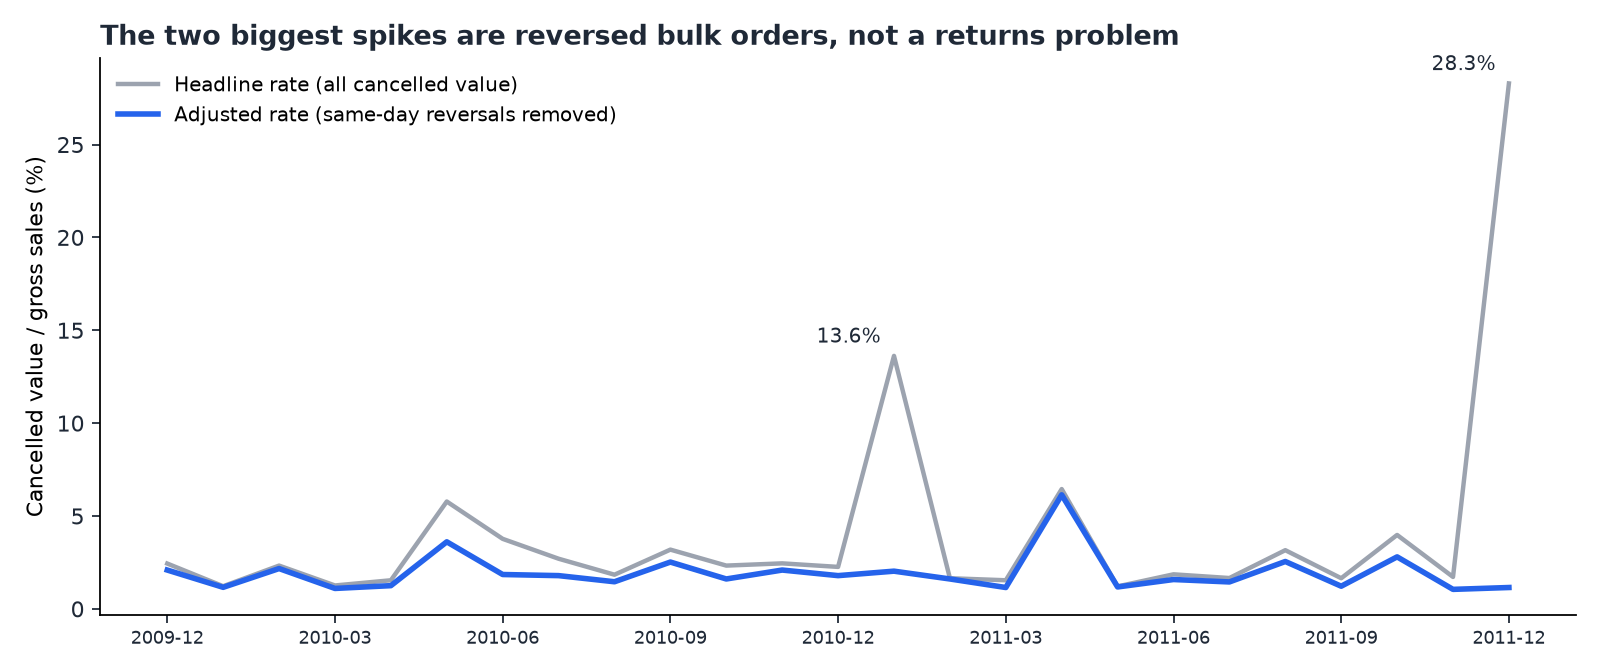
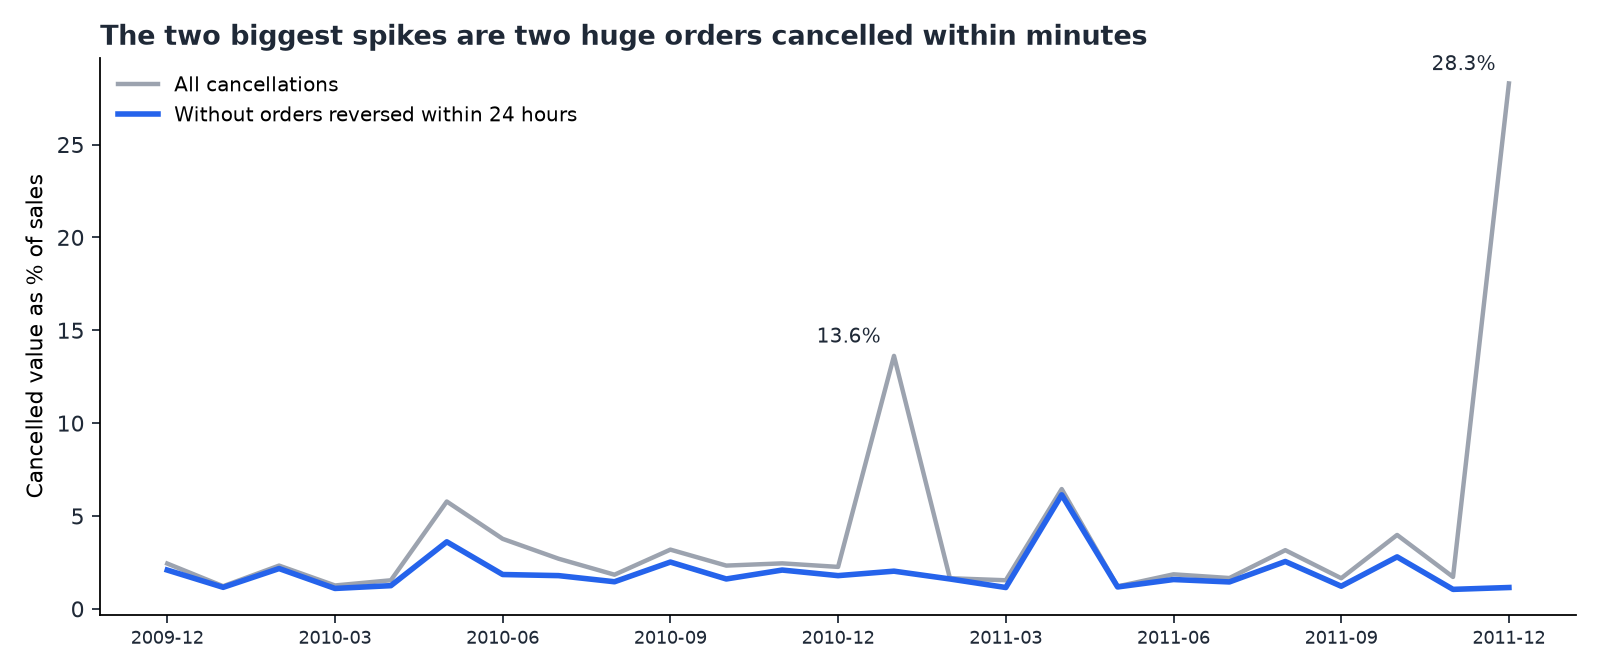
Plain-English chart and dashboard labels

Changed region(s): [[0.0938, 0.0938, 0.4062, 0.1875], [0.3125, 0.0312, 0.75, 0.0938], [0.0, 0.25, 0.0312, 0.75]]

diff --git a/reports/dashboard.html b/reports/dashboard.html
@@ -6,10 +6,10 @@ h1{font-size:22px;margin:0 0 4px}p.sub{margin:0 0 16px;color:#6b7280}
 .card{border:1px solid #e5e7eb;border-radius:8px;padding:12px 14px}.card b{display:block;font-size:26px}.card span{font-size:12px;color:#6b7280}
 .note{font-size:12px;color:#6b7280}</style></head><body>
 <h1>Retail cancellation leakage</h1>
-<p class="sub">UCI Online Retail II, one UK giftware retailer, Dec 2009 - Dec 2011. Product lines only; see README for cleaning rules.</p>
-<div class="cards"><div class="card"><b>£19.7m</b><span>Gross product sales (Dec 2009 - Dec 2011)</span></div><div class="card"><b>3.65%</b><span>Headline cancellation rate (by value)</span></div><div class="card"><b>50%</b><span>Of cancelled value is same-day reversals</span></div><div class="card"><b>1.88%</b><span>Adjusted rate after removing reversals</span></div></div>
+<p class="sub">Real sales from one UK online gift retailer (UCI Online Retail II), Dec 2009 to Dec 2011. Products only; the README lists the cleaning rules.</p>
+<div class="cards"><div class="card"><b>£19.7m</b><span>Product sales, Dec 2009 to Dec 2011</span></div><div class="card"><b>3.65%</b><span>Overall cancellation rate (by value)</span></div><div class="card"><b>50%</b><span>Of the cancelled value is orders reversed within 24 hours</span></div><div class="card"><b>1.88%</b><span>Cancellation rate once reversals are left out</span></div></div>
 <div style="height:820px; width:100%;">                        <script>window.PlotlyConfig = {MathJaxConfig: 'local'};</script>
-        <script charset="utf-8" src="https://cdn.plot.ly/plotly-4.1.1.min.js" integrity="sha256-O24V1F27f8pb0glCkelh3cVHLNiHAJ5gCaVtq2aNch8=" crossorigin="anonymous"></script>                <div id="9297d479-2f8f-4265-a16e-4677a641a400" class="plotly-graph-div" style="height:100%; width:100%;"></div>            <script>                window.PLOTLYENV=window.PLOTLYENV || {};                                if (document.getElementById("9297d479-2f8f-4265-a16e-4677a641a400")) {                    Plotly.newPlot(                        "9297d479-2f8f-4265-a16e-4677a641a400",                        [{"line":{"color":"#9ca3af","width":2},"name":"Headline","x":["2009-12","2010-01","2010-02","2010-03","2010-04","2010-05","2010-06","2010-07","2010-08","2010-09","2010-10","2010-11","2010-12","2011-01","2011-02","2011-03","2011-04","2011-05","2011-06","2011-07","2011-08","2011-09","2011-10","2011-11","2011-12"],"y":{"dtype":"f8","bdata":"hetRuB6FA0CF61G4HoXzP6RwPQrXowJAKVyPwvUo9D+kcD0K16P4Px+F61G4HhdAKVyPwvUoDkCamZmZmZkFQHE9CtejcP0\u002fhetRuB6FCUCkcD0K16MCQJqZmZmZmQNAFK5H4XoUAkA9CtejcD0rQGZmZmZmZvo\u002fpHA9Ctej+D\u002fNzMzMzMwZQFyPwvUoXPM\u002fw\u002fUoXI\u002fC\u002fT+PwvUoXI\u002f6P0jhehSuRwlAZmZmZmZm+j\u002fXo3A9CtcPQIXrUbgehfs\u002fCtejcD1KPEA="},"type":"scatter","xaxis":"x","yaxis":"y"},{"line":{"color":"#2563eb","width":3},"name":"Adjusted","x":["2009-12","2010-01","2010-02","2010-03","2010-04","2010-05","2010-06","2010-07","2010-08","2010-09","2010-10","2010-11","2010-12","2011-01","2011-02","2011-03","2011-04","2011-05","2011-06","2011-07","2011-08","2011-09","2011-10","2011-11","2011-12"],"y":{"dtype":"f8","bdata":"uB6F61G4AECPwvUoXI\u002fyP1yPwvUoXAFAmpmZmZmZ8T8AAAAAAAD0P+F6FK5H4QxAmpmZmZmZ\u002fT+kcD0K16P8P1yPwvUoXPc\u002fKVyPwvUoBEDD9Shcj8L5P7gehetRuABApHA9Ctej\u002fD89CtejcD0AQMP1KFyPwvk\u002fZmZmZmZm8j+PwvUoXI8YQOF6FK5H4fI\u002fSOF6FK5H+T8zMzMzMzP3P2ZmZmZmZgRAhetRuB6F8z9mZmZmZmYGQM3MzMzMzPA\u002fZmZmZmZm8j8="},"type":"scatter","xaxis":"x","yaxis":"y"},{"marker":{"color":["#dc2626","#2563eb","#9ca3af"]},"showlegend":false,"x":["Same-day reversals","Other cancellations","No customer ID"],"y":[356000.0,357010.0,6647.0],"type":"bar","xaxis":"x2","yaxis":"y2"},{"customdata":{"dtype":"f8","bdata":"ZmZmZmZmIEAAAAAAAAAhQDMzMzMzMzxAZmZmZmZmIUAAAAAAAIAwQGZmZmZmZiRAMzMzMzNzQUBmZmZmZuY5QJqZmZmZmQVAmpmZmZmZEUA="},"hovertemplate":"%{y}\u003cbr\u003e\u00a3%{x:,.0f} (%{customdata}% of SKU sales)\u003cextra\u003e\u003c\u002fextra\u003e","marker":{"color":"#2563eb"},"orientation":"h","showlegend":false,"x":{"dtype":"f8","bdata":"AAAAAACKrEAAAAAAAFatQAAAAAAAZq5AAAAAAAAqr0AAAAAAALOwQAAAAAAAR7JAAAAAAACSuEAAAAAAALG5QAAAAAAAaLtAAAAAAAApzEA="},"y":["Coloured Glass Star T-Light Ho","Gin + Tonic Diet Metal Sign","Pink Cherry Lights","Baking Set 9 Piece Retrospot ","Tea Time Party Bunting","Doormat Fairy Cake","White Cherry Lights","Fairy Cake Flannel Assorted Co","White Hanging Heart T-Light Ho","Regency Cakestand 3 Tier"],"type":"bar","xaxis":"x3","yaxis":"y3"},{"error_y":{"array":{"dtype":"f8","bdata":"0MzMzMzM3D9SuB6F61EiQJqZmZmZWTVAcD0K16Nw5T8="},"arrayminus":{"dtype":"f8","bdata":"xPUoXI\u002fC1T+kcD0K16MRQArXo3A9CidAzszMzMzM5D8="},"symmetric":false,"type":"data"},"marker":{"color":"#2563eb"},"showlegend":false,"x":["United Kingdom","France","Spain","Germany"],"y":{"dtype":"f8","bdata":"AAAAAAAAAEBSuB6F61EVQHsUrkfh+idA7FG4HoXrAUA="},"type":"bar","xaxis":"x4","yaxis":"y4"},{"marker":{"color":"#dc2626","size":10},"mode":"markers","name":"Without top canceller","x":["United Kingdom","France","Spain","Germany"],"y":{"dtype":"f8","bdata":"cT0K16Nw\u002fT+uR+F6FK7zP6RwPQrXo+g\u002frkfhehSu\u002fz8="},"type":"scatter","xaxis":"x4","yaxis":"y4"}],                        {"template":{"data":{"barpolar":[{"marker":{"line":{"color":"white","width":0.5},"pattern":{"fillmode":"overlay","size":10,"solidity":0.2}},"type":"barpolar"}],"bar":[{"error_x":{"color":"rgb(36,36,36)"},"error_y":{"color":"rgb(36,36,36)"},"marker":{"line":{"color":"white","width":0.5},"pattern":{"fillmode":"overlay","size":10,"solidity":0.2}},"type":"bar"}],"carpet":[{"aaxis":{"endlinecolor":"rgb(36,36,36)","gridcolor":"white","linecolor":"white","minorgridcolor":"white","startlinecolor":"rgb(36,36,36)"},"baxis":{"endlinecolor":"rgb(36,36,36)","gridcolor":"white","linecolor":"white","minorgridcolor":"white","startlinecolor":"rgb(36,36,36)"},"type":"carpet"}],"choropleth":[{"colorbar":{"outlinewidth":1,"tickcolor":"rgb(36,36,36)","ticks":"outside"},"type":"choropleth"}],"contourcarpet":[{"colorbar":{"outlinewidth":1,"tickcolor":"rgb(36,36,36)","ticks":"outside"},"type":"contourcarpet"}],"contour":[{"colorbar":{"outlinewidth":1,"tickcolor":"rgb(36,36,36)","ticks":"outside"},"colorscale":[[0.0,"#440154"],[0.1111111111111111,"#482878"],[0.2222222222222222,"#3e4989"],[0.3333333333333333,"#31688e"],[0.4444444444444444,"#26828e"],[0.5555555555555556,"#1f9e89"],[0.6666666666666666,"#35b779"],[0.7777777777777778,"#6ece58"],[0.8888888888888888,"#b5de2b"],[1.0,"#fde725"]],"type":"contour"}],"heatmap":[{"colorbar":{"outlinewidth":1,"tickcolor":"rgb(36,36,36)","ticks":"outside"},"colorscale":[[0.0,"#440154"],[0.1111111111111111,"#482878"],[0.2222222222222222,"#3e4989"],[0.3333333333333333,"#31688e"],[0.4444444444444444,"#26828e"],[0.5555555555555556,"#1f9e89"],[0.6666666666666666,"#35b779"],[0.7777777777777778,"#6ece58"],[0.8888888888888888,"#b5de2b"],[1.0,"#fde725"]],"type":"heatmap"}],"histogram2dcontour":[{"colorbar":{"outlinewidth":1,"tickcolor":"rgb(36,36,36)","ticks":"outside"},"colorscale":[[0.0,"#440154"],[0.1111111111111111,"#482878"],[0.2222222222222222,"#3e4989"],[0.3333333333333333,"#31688e"],[0.4444444444444444,"#26828e"],[0.5555555555555556,"#1f9e89"],[0.6666666666666666,"#35b779"],[0.7777777777777778,"#6ece58"],[0.8888888888888888,"#b5de2b"],[1.0,"#fde725"]],"type":"histogram2dcontour"}],"histogram2d":[{"colorbar":{"outlinewidth":1,"tickcolor":"rgb(36,36,36)","ticks":"outside"},"colorscale":[[0.0,"#440154"],[0.1111111111111111,"#482878"],[0.2222222222222222,"#3e4989"],[0.3333333333333333,"#31688e"],[0.4444444444444444,"#26828e"],[0.5555555555555556,"#1f9e89"],[0.6666666666666666,"#35b779"],[0.7777777777777778,"#6ece58"],[0.8888888888888888,"#b5de2b"],[1.0,"#fde725"]],"type":"histogram2d"}],"histogram":[{"marker":{"line":{"color":"white","width":0.6}},"type":"histogram"}],"mesh3d":[{"colorbar":{"outlinewidth":1,"tickcolor":"rgb(36,36,36)","ticks":"outside"},"type":"mesh3d"}],"parcoords":[{"line":{"colorbar":{"outlinewidth":1,"tickcolor":"rgb(36,36,36)","ticks":"outside"}},"type":"parcoords"}],"pie":[{"automargin":true,"type":"pie"}],"scatter3d":[{"line":{"colorbar":{"outlinewidth":1,"tickcolor":"rgb(36,36,36)","ticks":"outside"}},"marker":{"colorbar":{"outlinewidth":1,"tickcolor":"rgb(36,36,36)","ticks":"outside"}},"type":"scatter3d"}],"scattercarpet":[{"marker":{"colorbar":{"outlinewidth":1,"tickcolor":"rgb(36,36,36)","ticks":"outside"}},"type":"scattercarpet"}],"scattergeo":[{"marker":{"colorbar":{"outlinewidth":1,"tickcolor":"rgb(36,36,36)","ticks":"outside"}},"type":"scattergeo"}],"scattergl":[{"marker":{"colorbar":{"outlinewidth":1,"tickcolor":"rgb(36,36,36)","ticks":"outside"}},"type":"scattergl"}],"scattermap":[{"marker":{"colorbar":{"outlinewidth":1,"tickcolor":"rgb(36,36,36)","ticks":"outside"}},"type":"scattermap"}],"scatterpolargl":[{"marker":{"colorbar":{"outlinewidth":1,"tickcolor":"rgb(36,36,36)","ticks":"outside"}},"type":"scatterpolargl"}],"scatterpolar":[{"marker":{"colorbar":{"outlinewidth":1,"tickcolor":"rgb(36,36,36)","ticks":"outside"}},"type":"scatterpolar"}],"scatter":[{"fillpattern":{"fillmode":"overlay","size":10,"solidity":0.2},"type":"scatter"}],"scatterternary":[{"marker":{"colorbar":{"outlinewidth":1,"tickcolor":"rgb(36,36,36)","ticks":"outside"}},"type":"scatterternary"}],"surface":[{"colorbar":{"outlinewidth":1,"tickcolor":"rgb(36,36,36)","ticks":"outside"},"colorscale":[[0.0,"#440154"],[0.1111111111111111,"#482878"],[0.2222222222222222,"#3e4989"],[0.3333333333333333,"#31688e"],[0.4444444444444444,"#26828e"],[0.5555555555555556,"#1f9e89"],[0.6666666666666666,"#35b779"],[0.7777777777777778,"#6ece58"],[0.8888888888888888,"#b5de2b"],[1.0,"#fde725"]],"type":"surface"}],"table":[{"cells":{"fill":{"color":"rgb(237,237,237)"},"line":{"color":"white"}},"header":{"fill":{"color":"rgb(217,217,217)"},"line":{"color":"white"}},"type":"table"}]},"layout":{"annotationdefaults":{"arrowhead":0,"arrowwidth":1},"autotypenumbers":"strict","coloraxis":{"colorbar":{"outlinewidth":1,"tickcolor":"rgb(36,36,36)","ticks":"outside"}},"colorscale":{"diverging":[[0.0,"rgb(103,0,31)"],[0.1,"rgb(178,24,43)"],[0.2,"rgb(214,96,77)"],[0.3,"rgb(244,165,130)"],[0.4,"rgb(253,219,199)"],[0.5,"rgb(247,247,247)"],[0.6,"rgb(209,229,240)"],[0.7,"rgb(146,197,222)"],[0.8,"rgb(67,147,195)"],[0.9,"rgb(33,102,172)"],[1.0,"rgb(5,48,97)"]],"sequential":[[0.0,"#440154"],[0.1111111111111111,"#482878"],[0.2222222222222222,"#3e4989"],[0.3333333333333333,"#31688e"],[0.4444444444444444,"#26828e"],[0.5555555555555556,"#1f9e89"],[0.6666666666666666,"#35b779"],[0.7777777777777778,"#6ece58"],[0.8888888888888888,"#b5de2b"],[1.0,"#fde725"]],"sequentialminus":[[0.0,"#440154"],[0.1111111111111111,"#482878"],[0.2222222222222222,"#3e4989"],[0.3333333333333333,"#31688e"],[0.4444444444444444,"#26828e"],[0.5555555555555556,"#1f9e89"],[0.6666666666666666,"#35b779"],[0.7777777777777778,"#6ece58"],[0.8888888888888888,"#b5de2b"],[1.0,"#fde725"]]},"colorway":["#1F77B4","#FF7F0E","#2CA02C","#D62728","#9467BD","#8C564B","#E377C2","#7F7F7F","#BCBD22","#17BECF"],"font":{"color":"rgb(36,36,36)"},"geo":{"bgcolor":"white","lakecolor":"white","landcolor":"white","showlakes":true,"showland":true,"subunitcolor":"white"},"hoverlabel":{"align":"left"},"hovermode":"closest","paper_bgcolor":"white","plot_bgcolor":"white","polar":{"angularaxis":{"gridcolor":"rgb(232,232,232)","linecolor":"rgb(36,36,36)","showgrid":false,"showline":true,"ticks":"outside"},"bgcolor":"white","radialaxis":{"gridcolor":"rgb(232,232,232)","linecolor":"rgb(36,36,36)","showgrid":false,"showline":true,"ticks":"outside"}},"scene":{"xaxis":{"backgroundcolor":"white","gridcolor":"rgb(232,232,232)","gridwidth":2,"linecolor":"rgb(36,36,36)","showbackground":true,"showgrid":false,"showline":true,"ticks":"outside","zeroline":false,"zerolinecolor":"rgb(36,36,36)"},"yaxis":{"backgroundcolor":"white","gridcolor":"rgb(232,232,232)","gridwidth":2,"linecolor":"rgb(36,36,36)","showbackground":true,"showgrid":false,"showline":true,"ticks":"outside","zeroline":false,"zerolinecolor":"rgb(36,36,36)"},"zaxis":{"backgroundcolor":"white","gridcolor":"rgb(232,232,232)","gridwidth":2,"linecolor":"rgb(36,36,36)","showbackground":true,"showgrid":false,"showline":true,"ticks":"outside","zeroline":false,"zerolinecolor":"rgb(36,36,36)"}},"shapedefaults":{"fillcolor":"black","line":{"width":0},"opacity":0.3},"ternary":{"aaxis":{"gridcolor":"rgb(232,232,232)","linecolor":"rgb(36,36,36)","showgrid":false,"showline":true,"ticks":"outside"},"baxis":{"gridcolor":"rgb(232,232,232)","linecolor":"rgb(36,36,36)","showgrid":false,"showline":true,"ticks":"outside"},"bgcolor":"white","caxis":{"gridcolor":"rgb(232,232,232)","linecolor":"rgb(36,36,36)","showgrid":false,"showline":true,"ticks":"outside"}},"title":{"x":0.05},"xaxis":{"automargin":true,"gridcolor":"rgb(232,232,232)","linecolor":"rgb(36,36,36)","showgrid":false,"showline":true,"ticks":"outside","title":{"standoff":15},"zeroline":false,"zerolinecolor":"rgb(36,36,36)"},"yaxis":{"automargin":true,"gridcolor":"rgb(232,232,232)","linecolor":"rgb(36,36,36)","showgrid":false,"showline":true,"ticks":"outside","title":{"standoff":15},"zeroline":false,"zerolinecolor":"rgb(36,36,36)"}}},"xaxis":{"anchor":"y","domain":[0.0,0.44]},"yaxis":{"anchor":"x","domain":[0.61,1.0],"title":{"text":"% of gross sales"}},"xaxis2":{"anchor":"y2","domain":[0.56,1.0]},"yaxis2":{"anchor":"x2","domain":[0.61,1.0]},"xaxis3":{"anchor":"y3","domain":[0.0,0.44]},"yaxis3":{"anchor":"x3","domain":[0.0,0.39]},"xaxis4":{"anchor":"y4","domain":[0.56,1.0]},"yaxis4":{"anchor":"x4","domain":[0.0,0.39],"title":{"text":"% of identified-customer spend"}},"annotations":[{"font":{"size":16},"showarrow":false,"text":"Monthly cancellation rate: headline vs adjusted","x":0.22,"xanchor":"center","xref":"paper","y":1.0,"yanchor":"bottom","yref":"paper"},{"font":{"size":16},"showarrow":false,"text":"Cancelled value by type (GBP)","x":0.78,"xanchor":"center","xref":"paper","y":1.0,"yanchor":"bottom","yref":"paper"},{"font":{"size":16},"showarrow":false,"text":"Top 10 SKUs by non-reversal cancelled value (GBP)","x":0.22,"xanchor":"center","xref":"paper","y":0.39,"yanchor":"bottom","yref":"paper"},{"font":{"size":16},"showarrow":false,"text":"Rate by country, 95% bootstrap CI (identified customers)","x":0.78,"xanchor":"center","xref":"paper","y":0.39,"yanchor":"bottom","yref":"paper"}],"margin":{"t":70,"l":60,"r":30,"b":40},"legend":{"orientation":"h","y":-0.08},"font":{"family":"Segoe UI, Arial","size":12},"height":820},                        {"responsive": true}                    )                };            </script>        </div>
-<p class="note">Adjusted rate = (non-reversal cancellations) / (gross sales minus reversed sales). A reversal is a cancellation of the same customer, SKU and quantity within 24 hours of the sale.
-Cancellation reasons are not in the data, so cancellations include returns, order-entry corrections and cancelled orders.</p>
+        <script charset="utf-8" src="https://cdn.plot.ly/plotly-4.1.1.min.js" integrity="sha256-O24V1F27f8pb0glCkelh3cVHLNiHAJ5gCaVtq2aNch8=" crossorigin="anonymous"></script>                <div id="7b3cbc96-f692-4897-905b-ffdba1a85541" class="plotly-graph-div" style="height:100%; width:100%;"></div>            <script>                window.PLOTLYENV=window.PLOTLYENV || {};                                if (document.getElementById("7b3cbc96-f692-4897-905b-ffdba1a85541")) {                    Plotly.newPlot(                        "7b3cbc96-f692-4897-905b-ffdba1a85541",                        [{"line":{"color":"#9ca3af","width":2},"name":"All cancellations","x":["2009-12","2010-01","2010-02","2010-03","2010-04","2010-05","2010-06","2010-07","2010-08","2010-09","2010-10","2010-11","2010-12","2011-01","2011-02","2011-03","2011-04","2011-05","2011-06","2011-07","2011-08","2011-09","2011-10","2011-11","2011-12"],"y":{"dtype":"f8","bdata":"hetRuB6FA0CF61G4HoXzP6RwPQrXowJAKVyPwvUo9D+kcD0K16P4Px+F61G4HhdAKVyPwvUoDkCamZmZmZkFQHE9CtejcP0\u002fhetRuB6FCUCkcD0K16MCQJqZmZmZmQNAFK5H4XoUAkA9CtejcD0rQGZmZmZmZvo\u002fpHA9Ctej+D\u002fNzMzMzMwZQFyPwvUoXPM\u002fw\u002fUoXI\u002fC\u002fT+PwvUoXI\u002f6P0jhehSuRwlAZmZmZmZm+j\u002fXo3A9CtcPQIXrUbgehfs\u002fCtejcD1KPEA="},"type":"scatter","xaxis":"x","yaxis":"y"},{"line":{"color":"#2563eb","width":3},"name":"Without reversals","x":["2009-12","2010-01","2010-02","2010-03","2010-04","2010-05","2010-06","2010-07","2010-08","2010-09","2010-10","2010-11","2010-12","2011-01","2011-02","2011-03","2011-04","2011-05","2011-06","2011-07","2011-08","2011-09","2011-10","2011-11","2011-12"],"y":{"dtype":"f8","bdata":"uB6F61G4AECPwvUoXI\u002fyP1yPwvUoXAFAmpmZmZmZ8T8AAAAAAAD0P+F6FK5H4QxAmpmZmZmZ\u002fT+kcD0K16P8P1yPwvUoXPc\u002fKVyPwvUoBEDD9Shcj8L5P7gehetRuABApHA9Ctej\u002fD89CtejcD0AQMP1KFyPwvk\u002fZmZmZmZm8j+PwvUoXI8YQOF6FK5H4fI\u002fSOF6FK5H+T8zMzMzMzP3P2ZmZmZmZgRAhetRuB6F8z9mZmZmZmYGQM3MzMzMzPA\u002fZmZmZmZm8j8="},"type":"scatter","xaxis":"x","yaxis":"y"},{"marker":{"color":["#dc2626","#2563eb","#9ca3af"]},"showlegend":false,"x":["Reversed within 24 hours","Other cancellations","No customer ID"],"y":[356000.0,357010.0,6647.0],"type":"bar","xaxis":"x2","yaxis":"y2"},{"customdata":{"dtype":"f8","bdata":"ZmZmZmZmIEAAAAAAAAAhQDMzMzMzMzxAZmZmZmZmIUAAAAAAAIAwQGZmZmZmZiRAMzMzMzNzQUBmZmZmZuY5QJqZmZmZmQVAmpmZmZmZEUA="},"hovertemplate":"%{y}\u003cbr\u003e\u00a3%{x:,.0f} (%{customdata}% of the product's sales)\u003cextra\u003e\u003c\u002fextra\u003e","marker":{"color":"#2563eb"},"orientation":"h","showlegend":false,"x":{"dtype":"f8","bdata":"AAAAAACKrEAAAAAAAFatQAAAAAAAZq5AAAAAAAAqr0AAAAAAALOwQAAAAAAAR7JAAAAAAACSuEAAAAAAALG5QAAAAAAAaLtAAAAAAAApzEA="},"y":["Coloured Glass Star T-Light Ho","Gin + Tonic Diet Metal Sign","Pink Cherry Lights","Baking Set 9 Piece Retrospot ","Tea Time Party Bunting","Doormat Fairy Cake","White Cherry Lights","Fairy Cake Flannel Assorted Co","White Hanging Heart T-Light Ho","Regency Cakestand 3 Tier"],"type":"bar","xaxis":"x3","yaxis":"y3"},{"error_y":{"array":{"dtype":"f8","bdata":"0MzMzMzM3D9SuB6F61EiQJqZmZmZWTVAcD0K16Nw5T8="},"arrayminus":{"dtype":"f8","bdata":"xPUoXI\u002fC1T+kcD0K16MRQArXo3A9CidAzszMzMzM5D8="},"symmetric":false,"type":"data"},"marker":{"color":"#2563eb"},"showlegend":false,"x":["United Kingdom","France","Spain","Germany"],"y":{"dtype":"f8","bdata":"AAAAAAAAAEBSuB6F61EVQHsUrkfh+idA7FG4HoXrAUA="},"type":"bar","xaxis":"x4","yaxis":"y4"},{"marker":{"color":"#dc2626","size":10},"mode":"markers","name":"Without its top cancelling customer","x":["United Kingdom","France","Spain","Germany"],"y":{"dtype":"f8","bdata":"cT0K16Nw\u002fT+uR+F6FK7zP6RwPQrXo+g\u002frkfhehSu\u002fz8="},"type":"scatter","xaxis":"x4","yaxis":"y4"}],                        {"template":{"data":{"barpolar":[{"marker":{"line":{"color":"white","width":0.5},"pattern":{"fillmode":"overlay","size":10,"solidity":0.2}},"type":"barpolar"}],"bar":[{"error_x":{"color":"rgb(36,36,36)"},"error_y":{"color":"rgb(36,36,36)"},"marker":{"line":{"color":"white","width":0.5},"pattern":{"fillmode":"overlay","size":10,"solidity":0.2}},"type":"bar"}],"carpet":[{"aaxis":{"endlinecolor":"rgb(36,36,36)","gridcolor":"white","linecolor":"white","minorgridcolor":"white","startlinecolor":"rgb(36,36,36)"},"baxis":{"endlinecolor":"rgb(36,36,36)","gridcolor":"white","linecolor":"white","minorgridcolor":"white","startlinecolor":"rgb(36,36,36)"},"type":"carpet"}],"choropleth":[{"colorbar":{"outlinewidth":1,"tickcolor":"rgb(36,36,36)","ticks":"outside"},"type":"choropleth"}],"contourcarpet":[{"colorbar":{"outlinewidth":1,"tickcolor":"rgb(36,36,36)","ticks":"outside"},"type":"contourcarpet"}],"contour":[{"colorbar":{"outlinewidth":1,"tickcolor":"rgb(36,36,36)","ticks":"outside"},"colorscale":[[0.0,"#440154"],[0.1111111111111111,"#482878"],[0.2222222222222222,"#3e4989"],[0.3333333333333333,"#31688e"],[0.4444444444444444,"#26828e"],[0.5555555555555556,"#1f9e89"],[0.6666666666666666,"#35b779"],[0.7777777777777778,"#6ece58"],[0.8888888888888888,"#b5de2b"],[1.0,"#fde725"]],"type":"contour"}],"heatmap":[{"colorbar":{"outlinewidth":1,"tickcolor":"rgb(36,36,36)","ticks":"outside"},"colorscale":[[0.0,"#440154"],[0.1111111111111111,"#482878"],[0.2222222222222222,"#3e4989"],[0.3333333333333333,"#31688e"],[0.4444444444444444,"#26828e"],[0.5555555555555556,"#1f9e89"],[0.6666666666666666,"#35b779"],[0.7777777777777778,"#6ece58"],[0.8888888888888888,"#b5de2b"],[1.0,"#fde725"]],"type":"heatmap"}],"histogram2dcontour":[{"colorbar":{"outlinewidth":1,"tickcolor":"rgb(36,36,36)","ticks":"outside"},"colorscale":[[0.0,"#440154"],[0.1111111111111111,"#482878"],[0.2222222222222222,"#3e4989"],[0.3333333333333333,"#31688e"],[0.4444444444444444,"#26828e"],[0.5555555555555556,"#1f9e89"],[0.6666666666666666,"#35b779"],[0.7777777777777778,"#6ece58"],[0.8888888888888888,"#b5de2b"],[1.0,"#fde725"]],"type":"histogram2dcontour"}],"histogram2d":[{"colorbar":{"outlinewidth":1,"tickcolor":"rgb(36,36,36)","ticks":"outside"},"colorscale":[[0.0,"#440154"],[0.1111111111111111,"#482878"],[0.2222222222222222,"#3e4989"],[0.3333333333333333,"#31688e"],[0.4444444444444444,"#26828e"],[0.5555555555555556,"#1f9e89"],[0.6666666666666666,"#35b779"],[0.7777777777777778,"#6ece58"],[0.8888888888888888,"#b5de2b"],[1.0,"#fde725"]],"type":"histogram2d"}],"histogram":[{"marker":{"line":{"color":"white","width":0.6}},"type":"histogram"}],"mesh3d":[{"colorbar":{"outlinewidth":1,"tickcolor":"rgb(36,36,36)","ticks":"outside"},"type":"mesh3d"}],"parcoords":[{"line":{"colorbar":{"outlinewidth":1,"tickcolor":"rgb(36,36,36)","ticks":"outside"}},"type":"parcoords"}],"pie":[{"automargin":true,"type":"pie"}],"scatter3d":[{"line":{"colorbar":{"outlinewidth":1,"tickcolor":"rgb(36,36,36)","ticks":"outside"}},"marker":{"colorbar":{"outlinewidth":1,"tickcolor":"rgb(36,36,36)","ticks":"outside"}},"type":"scatter3d"}],"scattercarpet":[{"marker":{"colorbar":{"outlinewidth":1,"tickcolor":"rgb(36,36,36)","ticks":"outside"}},"type":"scattercarpet"}],"scattergeo":[{"marker":{"colorbar":{"outlinewidth":1,"tickcolor":"rgb(36,36,36)","ticks":"outside"}},"type":"scattergeo"}],"scattergl":[{"marker":{"colorbar":{"outlinewidth":1,"tickcolor":"rgb(36,36,36)","ticks":"outside"}},"type":"scattergl"}],"scattermap":[{"marker":{"colorbar":{"outlinewidth":1,"tickcolor":"rgb(36,36,36)","ticks":"outside"}},"type":"scattermap"}],"scatterpolargl":[{"marker":{"colorbar":{"outlinewidth":1,"tickcolor":"rgb(36,36,36)","ticks":"outside"}},"type":"scatterpolargl"}],"scatterpolar":[{"marker":{"colorbar":{"outlinewidth":1,"tickcolor":"rgb(36,36,36)","ticks":"outside"}},"type":"scatterpolar"}],"scatter":[{"fillpattern":{"fillmode":"overlay","size":10,"solidity":0.2},"type":"scatter"}],"scatterternary":[{"marker":{"colorbar":{"outlinewidth":1,"tickcolor":"rgb(36,36,36)","ticks":"outside"}},"type":"scatterternary"}],"surface":[{"colorbar":{"outlinewidth":1,"tickcolor":"rgb(36,36,36)","ticks":"outside"},"colorscale":[[0.0,"#440154"],[0.1111111111111111,"#482878"],[0.2222222222222222,"#3e4989"],[0.3333333333333333,"#31688e"],[0.4444444444444444,"#26828e"],[0.5555555555555556,"#1f9e89"],[0.6666666666666666,"#35b779"],[0.7777777777777778,"#6ece58"],[0.8888888888888888,"#b5de2b"],[1.0,"#fde725"]],"type":"surface"}],"table":[{"cells":{"fill":{"color":"rgb(237,237,237)"},"line":{"color":"white"}},"header":{"fill":{"color":"rgb(217,217,217)"},"line":{"color":"white"}},"type":"table"}]},"layout":{"annotationdefaults":{"arrowhead":0,"arrowwidth":1},"autotypenumbers":"strict","coloraxis":{"colorbar":{"outlinewidth":1,"tickcolor":"rgb(36,36,36)","ticks":"outside"}},"colorscale":{"diverging":[[0.0,"rgb(103,0,31)"],[0.1,"rgb(178,24,43)"],[0.2,"rgb(214,96,77)"],[0.3,"rgb(244,165,130)"],[0.4,"rgb(253,219,199)"],[0.5,"rgb(247,247,247)"],[0.6,"rgb(209,229,240)"],[0.7,"rgb(146,197,222)"],[0.8,"rgb(67,147,195)"],[0.9,"rgb(33,102,172)"],[1.0,"rgb(5,48,97)"]],"sequential":[[0.0,"#440154"],[0.1111111111111111,"#482878"],[0.2222222222222222,"#3e4989"],[0.3333333333333333,"#31688e"],[0.4444444444444444,"#26828e"],[0.5555555555555556,"#1f9e89"],[0.6666666666666666,"#35b779"],[0.7777777777777778,"#6ece58"],[0.8888888888888888,"#b5de2b"],[1.0,"#fde725"]],"sequentialminus":[[0.0,"#440154"],[0.1111111111111111,"#482878"],[0.2222222222222222,"#3e4989"],[0.3333333333333333,"#31688e"],[0.4444444444444444,"#26828e"],[0.5555555555555556,"#1f9e89"],[0.6666666666666666,"#35b779"],[0.7777777777777778,"#6ece58"],[0.8888888888888888,"#b5de2b"],[1.0,"#fde725"]]},"colorway":["#1F77B4","#FF7F0E","#2CA02C","#D62728","#9467BD","#8C564B","#E377C2","#7F7F7F","#BCBD22","#17BECF"],"font":{"color":"rgb(36,36,36)"},"geo":{"bgcolor":"white","lakecolor":"white","landcolor":"white","showlakes":true,"showland":true,"subunitcolor":"white"},"hoverlabel":{"align":"left"},"hovermode":"closest","paper_bgcolor":"white","plot_bgcolor":"white","polar":{"angularaxis":{"gridcolor":"rgb(232,232,232)","linecolor":"rgb(36,36,36)","showgrid":false,"showline":true,"ticks":"outside"},"bgcolor":"white","radialaxis":{"gridcolor":"rgb(232,232,232)","linecolor":"rgb(36,36,36)","showgrid":false,"showline":true,"ticks":"outside"}},"scene":{"xaxis":{"backgroundcolor":"white","gridcolor":"rgb(232,232,232)","gridwidth":2,"linecolor":"rgb(36,36,36)","showbackground":true,"showgrid":false,"showline":true,"ticks":"outside","zeroline":false,"zerolinecolor":"rgb(36,36,36)"},"yaxis":{"backgroundcolor":"white","gridcolor":"rgb(232,232,232)","gridwidth":2,"linecolor":"rgb(36,36,36)","showbackground":true,"showgrid":false,"showline":true,"ticks":"outside","zeroline":false,"zerolinecolor":"rgb(36,36,36)"},"zaxis":{"backgroundcolor":"white","gridcolor":"rgb(232,232,232)","gridwidth":2,"linecolor":"rgb(36,36,36)","showbackground":true,"showgrid":false,"showline":true,"ticks":"outside","zeroline":false,"zerolinecolor":"rgb(36,36,36)"}},"shapedefaults":{"fillcolor":"black","line":{"width":0},"opacity":0.3},"ternary":{"aaxis":{"gridcolor":"rgb(232,232,232)","linecolor":"rgb(36,36,36)","showgrid":false,"showline":true,"ticks":"outside"},"baxis":{"gridcolor":"rgb(232,232,232)","linecolor":"rgb(36,36,36)","showgrid":false,"showline":true,"ticks":"outside"},"bgcolor":"white","caxis":{"gridcolor":"rgb(232,232,232)","linecolor":"rgb(36,36,36)","showgrid":false,"showline":true,"ticks":"outside"}},"title":{"x":0.05},"xaxis":{"automargin":true,"gridcolor":"rgb(232,232,232)","linecolor":"rgb(36,36,36)","showgrid":false,"showline":true,"ticks":"outside","title":{"standoff":15},"zeroline":false,"zerolinecolor":"rgb(36,36,36)"},"yaxis":{"automargin":true,"gridcolor":"rgb(232,232,232)","linecolor":"rgb(36,36,36)","showgrid":false,"showline":true,"ticks":"outside","title":{"standoff":15},"zeroline":false,"zerolinecolor":"rgb(36,36,36)"}}},"xaxis":{"anchor":"y","domain":[0.0,0.44]},"yaxis":{"anchor":"x","domain":[0.61,1.0],"title":{"text":"% of sales"}},"xaxis2":{"anchor":"y2","domain":[0.56,1.0]},"yaxis2":{"anchor":"x2","domain":[0.61,1.0]},"xaxis3":{"anchor":"y3","domain":[0.0,0.44]},"yaxis3":{"anchor":"x3","domain":[0.0,0.39]},"xaxis4":{"anchor":"y4","domain":[0.56,1.0]},"yaxis4":{"anchor":"x4","domain":[0.0,0.39],"title":{"text":"% of spend (customers with an ID)"}},"annotations":[{"font":{"size":16},"showarrow":false,"text":"Monthly cancellation rate, with and without reversals","x":0.22,"xanchor":"center","xref":"paper","y":1.0,"yanchor":"bottom","yref":"paper"},{"font":{"size":16},"showarrow":false,"text":"Where the cancelled value comes from (\u00a3)","x":0.78,"xanchor":"center","xref":"paper","y":1.0,"yanchor":"bottom","yref":"paper"},{"font":{"size":16},"showarrow":false,"text":"Top 10 products by cancelled value, excluding reversals (\u00a3)","x":0.22,"xanchor":"center","xref":"paper","y":0.39,"yanchor":"bottom","yref":"paper"},{"font":{"size":16},"showarrow":false,"text":"Rate by country, with 95% confidence ranges","x":0.78,"xanchor":"center","xref":"paper","y":0.39,"yanchor":"bottom","yref":"paper"}],"margin":{"t":70,"l":60,"r":30,"b":40},"legend":{"orientation":"h","y":-0.08},"font":{"family":"Segoe UI, Arial","size":12},"height":820},                        {"responsive": true}                    )                };            </script>        </div>
+<p class="note">Rate without reversals = cancellations other than reversals ÷ (sales minus the reversed sales). A reversal is when the same customer cancels the same product and quantity within 24 hours of buying it.
+The data gives no reasons for cancelling, so cancellations include returns, order-entry corrections and cancelled orders.</p>
 </body></html>

diff --git a/src/build_outputs.py b/src/build_outputs.py
@@ -21,31 +21,31 @@ def dashboard() -> Path:
 
     fig = make_subplots(
         rows=2, cols=2, vertical_spacing=0.22, horizontal_spacing=0.12,
-        subplot_titles=("Monthly cancellation rate: headline vs adjusted", "Cancelled value by type (GBP)",
-                        "Top 10 SKUs by non-reversal cancelled value (GBP)", "Rate by country, 95% bootstrap CI (identified customers)"),
+        subplot_titles=("Monthly cancellation rate, with and without reversals", "Where the cancelled value comes from (£)",
+                        "Top 10 products by cancelled value, excluding reversals (£)", "Rate by country, with 95% confidence ranges"),
     )
-    fig.add_trace(go.Scatter(x=monthly.invoice_month, y=monthly.headline_rate_pct, name="Headline", line=dict(color=GREY, width=2)), 1, 1)
-    fig.add_trace(go.Scatter(x=monthly.invoice_month, y=monthly.adjusted_rate_pct, name="Adjusted", line=dict(color=BLUE, width=3)), 1, 1)
-    fig.add_trace(go.Bar(x=["Same-day reversals", "Other cancellations", "No customer ID"],
+    fig.add_trace(go.Scatter(x=monthly.invoice_month, y=monthly.headline_rate_pct, name="All cancellations", line=dict(color=GREY, width=2)), 1, 1)
+    fig.add_trace(go.Scatter(x=monthly.invoice_month, y=monthly.adjusted_rate_pct, name="Without reversals", line=dict(color=BLUE, width=3)), 1, 1)
+    fig.add_trace(go.Bar(x=["Reversed within 24 hours", "Other cancellations", "No customer ID"],
                          y=[kpi.reversal_24h_gbp, kpi.other_cancelled_gbp, kpi.unmatched_gbp],
                          marker_color=[RED, BLUE, GREY], showlegend=False), 1, 2)
     top = skus.head(10).iloc[::-1]
     fig.add_trace(go.Bar(y=top.description.str.title().str.slice(0, 30), x=top.other_cancelled_gbp, orientation="h",
-                         marker_color=BLUE, customdata=top.rate_pct, hovertemplate="%{y}<br>£%{x:,.0f} (%{customdata}% of SKU sales)<extra></extra>",
+                         marker_color=BLUE, customdata=top.rate_pct, hovertemplate="%{y}<br>£%{x:,.0f} (%{customdata}% of the product's sales)<extra></extra>",
                          showlegend=False), 2, 1)
     fig.add_trace(go.Bar(x=ctry.country, y=ctry.rate_pct, marker_color=BLUE, showlegend=False,
                          error_y=dict(type="data", symmetric=False, array=ctry.ci_high_pct - ctry.rate_pct, arrayminus=ctry.rate_pct - ctry.ci_low_pct)), 2, 2)
-    fig.add_trace(go.Scatter(x=ctry.country, y=ctry.rate_without_top_customer_pct, mode="markers", name="Without top canceller",
+    fig.add_trace(go.Scatter(x=ctry.country, y=ctry.rate_without_top_customer_pct, mode="markers", name="Without its top cancelling customer",
                              marker=dict(color=RED, size=10)), 2, 2)
-    fig.update_yaxes(title_text="% of gross sales", row=1, col=1)
-    fig.update_yaxes(title_text="% of identified-customer spend", row=2, col=2)
+    fig.update_yaxes(title_text="% of sales", row=1, col=1)
+    fig.update_yaxes(title_text="% of spend (customers with an ID)", row=2, col=2)
     fig.update_layout(height=820, template="simple_white", margin=dict(t=70, l=60, r=30, b=40),
                       legend=dict(orientation="h", y=-0.08), font=dict(family="Segoe UI, Arial", size=12))
     cards = [
-        (f"£{kpi.gross_sales_gbp / 1e6:.1f}m", "Gross product sales (Dec 2009 - Dec 2011)"),
-        (f"{kpi.headline_rate_pct:.2f}%", "Headline cancellation rate (by value)"),
-        (f"{kpi.reversal_share_of_cancelled_pct:.0f}%", "Of cancelled value is same-day reversals"),
-        (f"{kpi.adjusted_rate_pct:.2f}%", "Adjusted rate after removing reversals"),
+        (f"£{kpi.gross_sales_gbp / 1e6:.1f}m", "Product sales, Dec 2009 to Dec 2011"),
+        (f"{kpi.headline_rate_pct:.2f}%", "Overall cancellation rate (by value)"),
+        (f"{kpi.reversal_share_of_cancelled_pct:.0f}%", "Of the cancelled value is orders reversed within 24 hours"),
+        (f"{kpi.adjusted_rate_pct:.2f}%", "Cancellation rate once reversals are left out"),
     ]
     card_html = "".join(f'<div class="card"><b>{v}</b><span>{t}</span></div>' for v, t in cards)
     html = f"""<!doctype html><html lang="en"><head><meta charset="utf-8"><meta name="viewport" content="width=device-width,initial-scale=1">
@@ -56,11 +56,11 @@ h1{{font-size:22px;margin:0 0 4px}}p.sub{{margin:0 0 16px;color:#6b7280}}
 .card{{border:1px solid #e5e7eb;border-radius:8px;padding:12px 14px}}.card b{{display:block;font-size:26px}}.card span{{font-size:12px;color:#6b7280}}
 .note{{font-size:12px;color:#6b7280}}</style></head><body>
 <h1>Retail cancellation leakage</h1>
-<p class="sub">UCI Online Retail II, one UK giftware retailer, Dec 2009 - Dec 2011. Product lines only; see README for cleaning rules.</p>
+<p class="sub">Real sales from one UK online gift retailer (UCI Online Retail II), Dec 2009 to Dec 2011. Products only; the README lists the cleaning rules.</p>
 <div class="cards">{card_html}</div>
 {fig.to_html(full_html=False, include_plotlyjs="cdn")}
-<p class="note">Adjusted rate = (non-reversal cancellations) / (gross sales minus reversed sales). A reversal is a cancellation of the same customer, SKU and quantity within 24 hours of the sale.
-Cancellation reasons are not in the data, so cancellations include returns, order-entry corrections and cancelled orders.</p>
+<p class="note">Rate without reversals = cancellations other than reversals ÷ (sales minus the reversed sales). A reversal is when the same customer cancels the same product and quantity within 24 hours of buying it.
+The data gives no reasons for cancelling, so cancellations include returns, order-entry corrections and cancelled orders.</p>
 </body></html>"""
     out = ROOT / "reports" / "dashboard.html"
     out.write_text(html, encoding="utf-8")

diff --git a/src/analysis.py b/src/analysis.py
@@ -99,52 +99,52 @@ def main() -> dict:
 
     # --- figures
     fig, ax = plt.subplots(figsize=(10, 4.2))
-    ax.plot(monthly["invoice_month"], monthly["headline_rate_pct"], color=MUTED, lw=2, label="Headline rate (all cancelled value)")
-    ax.plot(monthly["invoice_month"], monthly["adjusted_rate_pct"], color=ACCENT, lw=2.5, label="Adjusted rate (same-day reversals removed)")
+    ax.plot(monthly["invoice_month"], monthly["headline_rate_pct"], color=MUTED, lw=2, label="All cancellations")
+    ax.plot(monthly["invoice_month"], monthly["adjusted_rate_pct"], color=ACCENT, lw=2.5, label="Without orders reversed within 24 hours")
     for m in ("2011-01", "2011-12"):
         r = monthly[monthly.invoice_month == m].iloc[0]
         ax.annotate(f"{r.headline_rate_pct:.1f}%", (m, r.headline_rate_pct), textcoords="offset points", xytext=(-6, 6), color=INK, fontsize=9, ha="right")
-    ax.set_ylabel("Cancelled value / gross sales (%)")
+    ax.set_ylabel("Cancelled value as % of sales")
     ax.set_xticks(range(0, len(monthly), 3), monthly["invoice_month"][::3], rotation=0, fontsize=8)
     ax.legend(frameon=False, loc="upper left", fontsize=9)
-    style(ax, "The two biggest spikes are reversed bulk orders, not a returns problem")
+    style(ax, "The two biggest spikes are two huge orders cancelled within minutes")
     fig.tight_layout(); fig.savefig(FIG / "01_monthly_headline_vs_adjusted.png", dpi=160); plt.close(fig)
 
     fig, ax = plt.subplots(figsize=(7, 3.2))
-    parts = [("Same-day reversals", kpi.reversal_24h_gbp, ALERT), ("Other cancellations", kpi.other_cancelled_gbp, ACCENT), ("No customer ID", kpi.unmatched_gbp, MUTED)]
+    parts = [("Reversed within 24 hours", kpi.reversal_24h_gbp, ALERT), ("Other cancellations", kpi.other_cancelled_gbp, ACCENT), ("No customer ID, so can't be matched", kpi.unmatched_gbp, MUTED)]
     left = 0
     for name, v, col in parts:
         ax.barh([0], [v / 1000], left=left, color=col, label=f"{name}: £{v / 1000:,.0f}k")
         left += v / 1000
     ax.set_yticks([]); ax.set_xlabel("Cancelled value (£ thousand)")
     ax.legend(frameon=False, loc="upper center", bbox_to_anchor=(0.5, -0.35), ncol=1, fontsize=9)
-    style(ax, "About half of cancelled value is same-day reversals")
+    style(ax, "About half the cancelled value is orders reversed within 24 hours")
     fig.tight_layout(); fig.savefig(FIG / "02_cancelled_value_split.png", dpi=160); plt.close(fig)
 
     fig, ax = plt.subplots(figsize=(8, 4))
     labels = skus["description"].str.title().str.slice(0, 32) + " (" + skus["rate_pct"].round(0).astype(int).astype(str) + "%)"
     ax.barh(labels[::-1], skus["other_cancelled_gbp"][::-1] / 1000, color=ACCENT)
-    ax.set_xlabel("Non-reversal cancelled value (£ thousand); label = share of that SKU's sales")
-    style(ax, "Top 15 SKUs by cancelled value")
+    ax.set_xlabel("Cancelled value excluding reversals (£ thousand)\n% in brackets = share of that product's sales")
+    style(ax, "The 15 products with the most cancelled value")
     ax.tick_params(axis="y", labelsize=8)
     fig.tight_layout(); fig.savefig(FIG / "03_top_skus.png", dpi=160); plt.close(fig)
 
     fig, ax = plt.subplots(figsize=(7.5, 4))
     err = [country_ci["rate_pct"] - country_ci["ci_low_pct"], country_ci["ci_high_pct"] - country_ci["rate_pct"]]
-    ax.bar(country_ci["country"], country_ci["rate_pct"], yerr=err, color=ACCENT, capsize=4, label="Rate with 95% bootstrap CI")
-    ax.scatter(country_ci["country"], country_ci["rate_without_top_customer_pct"], color=ALERT, zorder=3, label="Rate without the largest canceller")
-    ax.set_ylabel("Non-reversal cancelled value / spend (%), identified customers")
+    ax.bar(country_ci["country"], country_ci["rate_pct"], yerr=err, color=ACCENT, capsize=4, label="Rate, with 95% confidence range")
+    ax.scatter(country_ci["country"], country_ci["rate_without_top_customer_pct"], color=ALERT, zorder=3, label="Rate without its top cancelling customer")
+    ax.set_ylabel("% of spend cancelled\n(excluding reversals; customers with an ID)")
     ax.legend(frameon=False, fontsize=9)
-    style(ax, "Spain's high rate is one customer, and its CI is very wide")
+    style(ax, "Spain's high rate comes from one customer and is very uncertain")
     fig.tight_layout(); fig.savefig(FIG / "04_country_rates_ci.png", dpi=160); plt.close(fig)
 
     fig, ax = plt.subplots(figsize=(7, 3.8))
     ax.bar(freq["cancel_invoice_band"], freq["rate_pct"], color=ACCENT)
     for i, r in freq.iterrows():
         ax.text(i, r.rate_pct + 0.05, f"{int(r.customers):,} customers\n£{r.spend_gbp / 1e6:.1f}m spend", ha="center", fontsize=8, color=INK)
-    ax.set_xlabel("Cancellation invoices per customer"); ax.set_ylabel("Cancelled value / spend (%)")
+    ax.set_xlabel("Number of times a customer cancelled"); ax.set_ylabel("% of spend cancelled")
     ax.set_ylim(0, freq["rate_pct"].max() * 1.5)
-    style(ax, "Customers who cancel: about 2.7% of spend, at any frequency")
+    style(ax, "Once or 5+ times, customers cancel about 2.7% of spend")
     fig.tight_layout(); fig.savefig(FIG / "05_cancel_frequency_bands.png", dpi=160); plt.close(fig)
 
     (ROOT / "outputs" / "findings.json").write_text(json.dumps(findings, indent=2))
